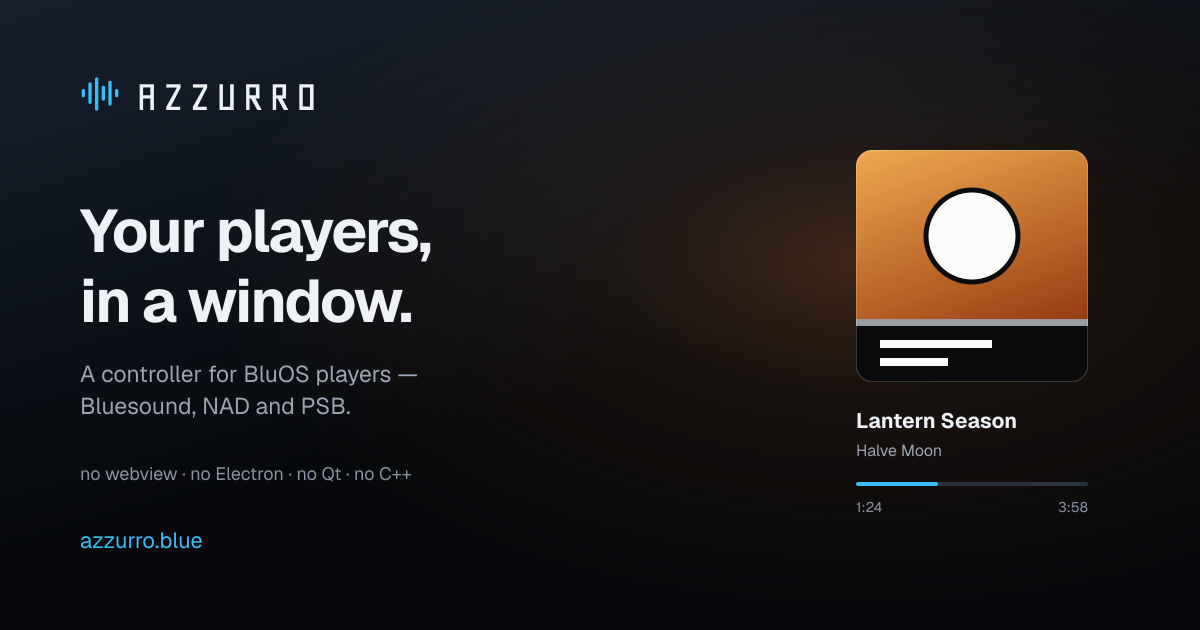
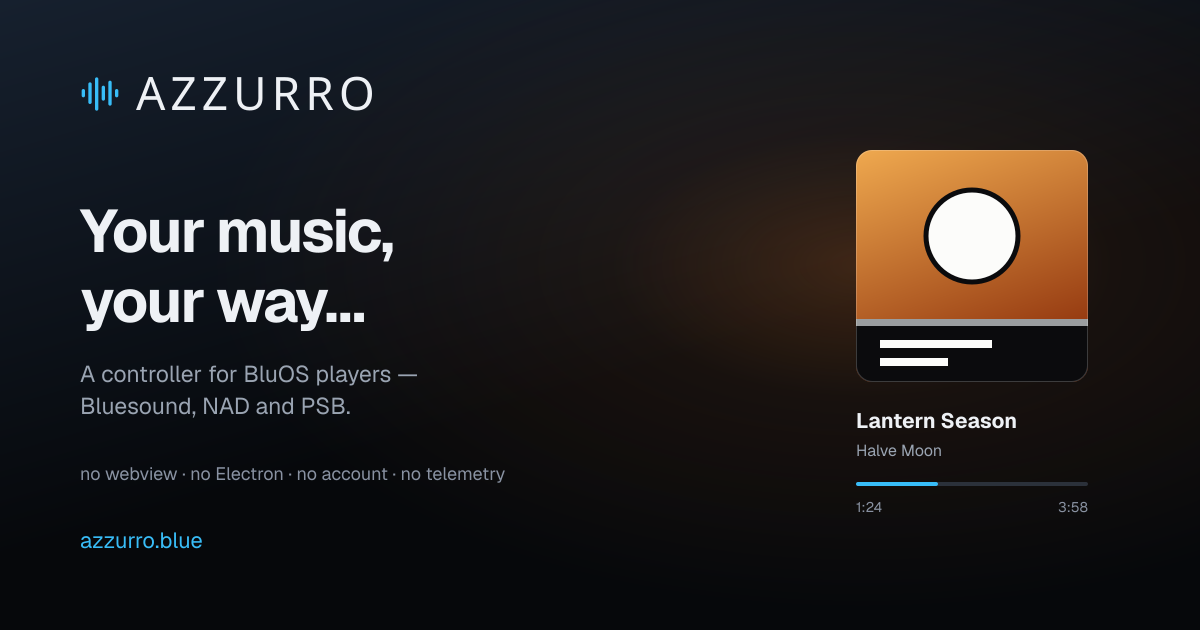
Your music, your way
The headline, and the two other places that had to change with it: the
og:image:alt text, and the social card, which carries the words as baked
pixels and had been saying something different again ("Your players")
since before this rewrite.

Downloads run Linux, macOS, Windows.

The "what is not there yet" section goes, and its nav entry with it — a
dead fragment link is worse than the section was. Removing it left two
plain bands adjacent, so the download section takes the sunken tone and
the alternation holds.

The card's chips now match the hero's rather than contradicting it, and
it was re-rendered with the real Geist through a private fontconfig, so
nothing was installed to do it.

diff --git a/index.html b/index.html
@@ -24,7 +24,7 @@
 <meta property="og:image:type" content="image/png">
 <meta property="og:image:width" content="1200">
 <meta property="og:image:height" content="630">
-<meta property="og:image:alt" content="Azzurro — your players, in a window. A controller for BluOS players, shown as a window with a play queue, a now-playing sleeve and a transport bar.">
+<meta property="og:image:alt" content="Azzurro — your music, your way. A controller for BluOS players, shown as a window with a play queue, a now-playing sleeve and a transport bar.">
 
 <meta name="twitter:card" content="summary_large_image">
 <meta name="twitter:image" content="https://azzurro.blue/assets/images/og.png">
@@ -117,7 +117,6 @@
       <a href="#discovery">Discovery</a>
       <a href="#browsing">Browsing</a>
       <a href="#colour">Colour</a>
-      <a href="#missing">Missing</a>
       <a href="#get">Get it</a>
     </nav>
 
@@ -141,7 +140,7 @@
 <section class="hero" id="top">
   <div class="wrap">
     <p class="eyebrow">BluOS controller &middot; Bluesound, NAD and PSB &middot; Linux, macOS and Windows</p>
-    <h1 class="hero-h1">Your speakers,<br>in a window.</h1>
+    <h1 class="hero-h1">Your music,<br>your way&hellip;</h1>
     <p class="hero-deck">
       A fast, native controller for BluOS players. Your library and every
       service the player offers, cover art throughout, every room grouped how
@@ -617,23 +616,8 @@
 </section>
 
 <!-- ---------------------------------------------------------- missing -->
-<section class="band band-sunken" id="missing">
-  <div class="wrap wrap-narrow center">
-    <p class="section-label">HONESTLY</p>
-    <h2>What is not there yet.</h2>
-    <p class="deck">
-      Bonded stereo pairs still show as two players, named groups cannot be
-      recalled in one press, and anything behind a BluOS account — adding a
-      music service, for one — happens on Lenbrook&rsquo;s site rather than here.
-    </p>
-    <p class="note">
-      It is version 0.1.0, and it is used daily against real hardware.
-    </p>
-  </div>
-</section>
-
 <!-- -------------------------------------------------------------- get -->
-<section class="band" id="get">
+<section class="band band-sunken" id="get">
   <div class="wrap wrap-narrow center">
     <p class="section-label">GET IT</p>
     <h2>Version 0.1.0.</h2>
@@ -651,11 +635,14 @@
       </a>
     </div>
 
-    <p class="note">Windows, from the package manager it already has:</p>
+    <p class="note">
+      Linux, as a Flatpak bundle for x86_64 or aarch64. It carries its own
+      runtime, so it does not care what your distribution ships.
+    </p>
 
-    <div class="cmd" data-copy="winget install Azzurro.Azzurro">
-      <code>winget install Azzurro.Azzurro</code>
-      <button class="copy" type="button" aria-label="Copy the winget command">
+    <div class="cmd" data-copy="flatpak install --user azzurro-v0.1.0-x86_64.flatpak">
+      <code>flatpak install --user azzurro-v0.1.0-x86_64.flatpak</code>
+      <button class="copy" type="button" aria-label="Copy the Flatpak command">
         <svg class="ico" aria-hidden="true"><use href="#i-file"/></svg>
       </button>
     </div>
@@ -669,14 +656,11 @@
       </button>
     </div>
 
-    <p class="note">
-      Linux, as a Flatpak bundle for x86_64 or aarch64. It carries its own
-      runtime, so it does not care what your distribution ships.
-    </p>
+    <p class="note">Windows, from the package manager it already has:</p>
 
-    <div class="cmd" data-copy="flatpak install --user azzurro-v0.1.0-x86_64.flatpak">
-      <code>flatpak install --user azzurro-v0.1.0-x86_64.flatpak</code>
-      <button class="copy" type="button" aria-label="Copy the Flatpak command">
+    <div class="cmd" data-copy="winget install Azzurro.Azzurro">
+      <code>winget install Azzurro.Azzurro</code>
+      <button class="copy" type="button" aria-label="Copy the winget command">
         <svg class="ico" aria-hidden="true"><use href="#i-file"/></svg>
       </button>
     </div>
